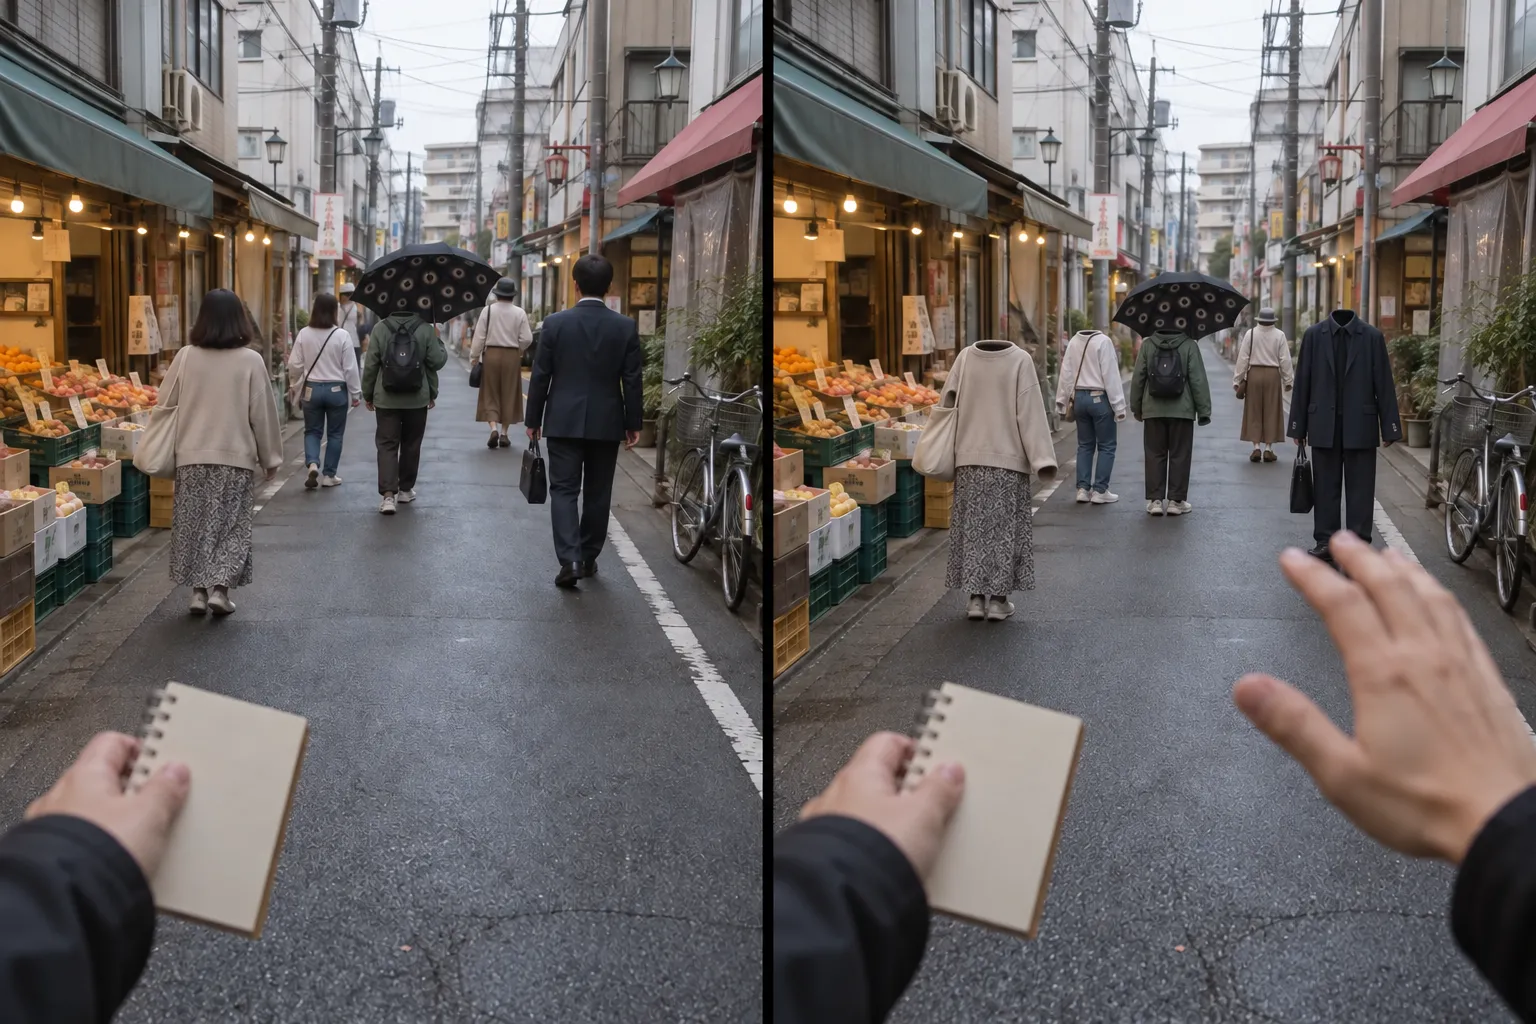
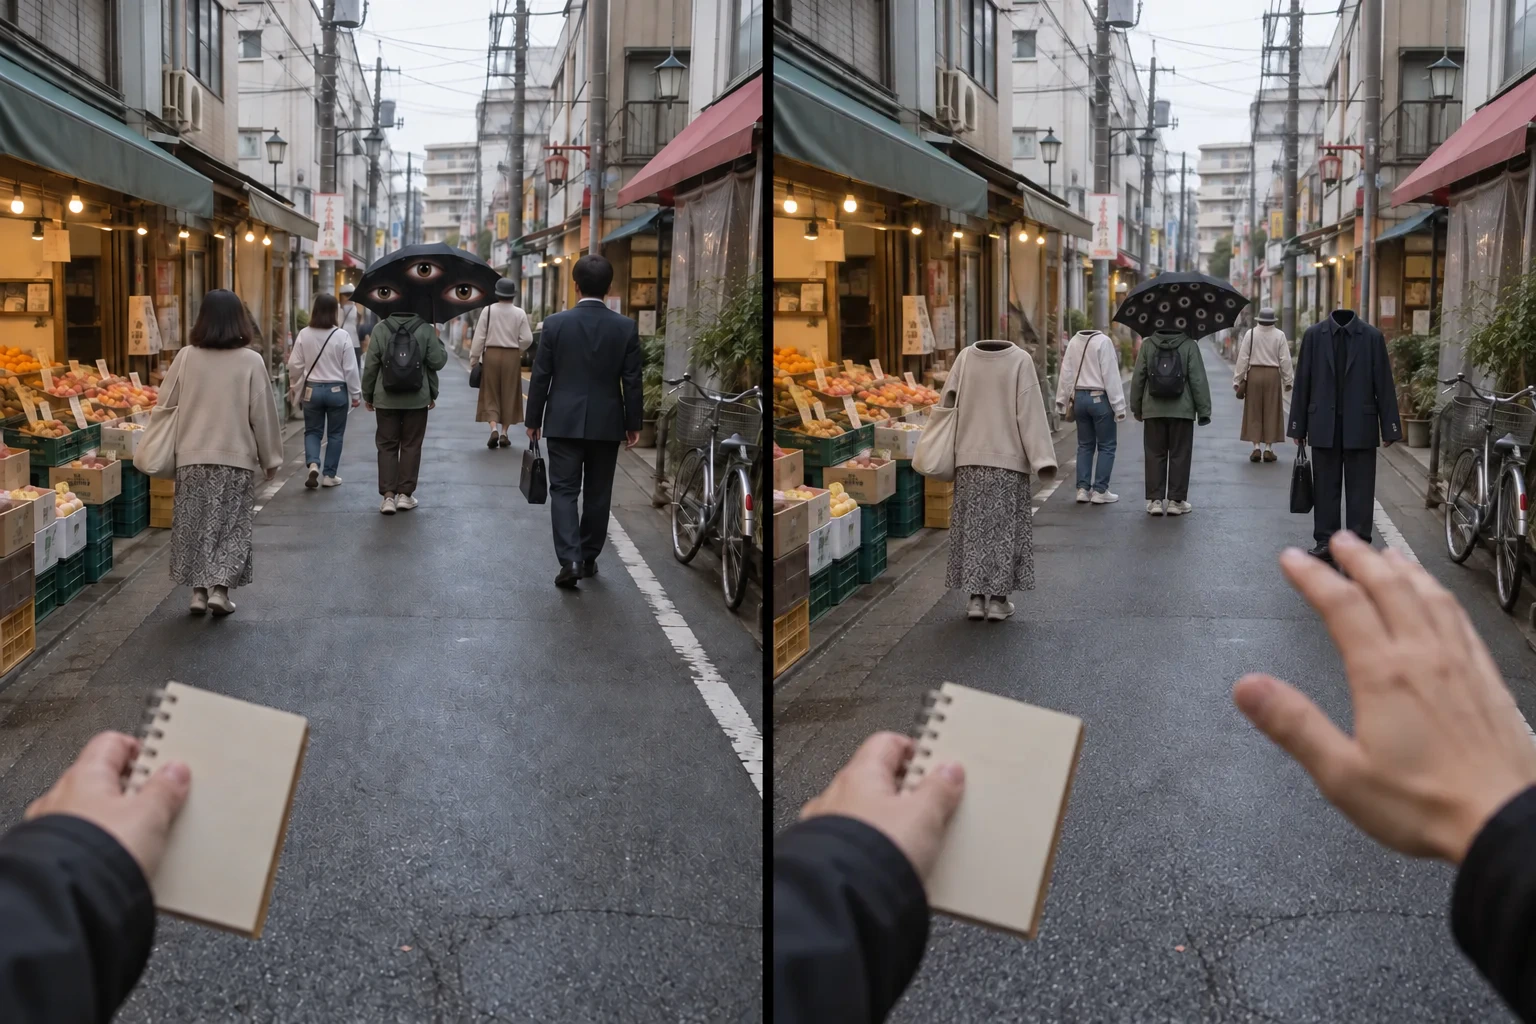
商店街の傘を明確な異変として描き直す (#226)
* Make umbrella observation unmistakably anomalous

* Narrow umbrella anomaly touch target to visible eyes

* Guide repeated missed anomaly taps to region picker

* Track street blind review under the roadmap

* Keep missed-touch guidance readable on short phones

* Preserve missed-contact wording in compact guidance

diff --git a/assets/investigation.js b/assets/investigation.js
@@ -2,7 +2,7 @@
 const INVESTIGATION_CASES={
  cctv:{member:'records',notes:['設置時の記録。公園には人影がない。','風速計は停止したまま。ブランコの位置だけが前の記録と違う。','人物に対応する入園記録はない。影だけが撮影範囲に入っている。','整列した跡は砂場の内側で途切れている。そこへ続く足跡はない。'],testimony:['この公園の使用届は、昨日から白紙です。','揺れていない、と書かれた点検票があります。点検時刻は、あなたの観測と同じです。','入園者はゼロで合っています。退園者だけ、一名記録されています。','並んだ数は報告書に書かないでください。前の報告より、一つ増えてしまうので。']},
  photo:{member:'senior',notes:['食器は三人分。撮影者の席は記録されていない。','箸の下に、支えるものは写っていない。食事の席は乱れていない。','追加の食器だけに使用した跡がある。誰が用意したかは不明。','窓の反射として処理された輪郭がある。反射の向きは室内と一致しない。'],testimony:['人数だけは覚えておけ。誰がいたかより、先に忘れる。','昔も箸が止まっていた。写真を片付けたあと、食器の音だけ聞こえた。','四人目を探す前に、自分が何人目なのか考えるな。席を離れていい。','あれを外から見ていると思うと、話が合わなくなる。今日は窓を閉めておこう。']},
- vision:{member:'equipment',notes:['接続元は商店街。映像を提供する人の氏名欄は空欄。','傘の輪郭に、機材の欠損では説明できない形がある。','接続先の人々の顔が、同じ方向へ向いている。操作者の位置は送信していない。','衣服は歩行中の形を保っている。着用者に相当する部分だけが見えない。'],testimony:['接続先は一台です。でも切断の返事は、毎回二つ来ます。','あの形、レンズの傷ではありません。電源を切ったモニタにも残るんです。','こちらの位置は送っていません。向こうが向きを合わせたとしか、記録できない。','通信量は減っていません。見えない部分の情報も、まだ届いています。']},
+ vision:{member:'equipment',notes:['接続元は商店街。映像を提供する人の氏名欄は空欄。','傘の布に、こちらを見返す眼が三つある。持ち手は映っていない。','接続先の人々の顔が、同じ方向へ向いている。操作者の位置は送信していない。','衣服は歩行中の形を保っている。着用者に相当する部分だけが見えない。'],testimony:['接続先は一台です。でも切断の返事は、毎回二つ来ます。','あの形、レンズの傷ではありません。電源を切ったモニタにも残るんです。','こちらの位置は送っていません。向こうが向きを合わせたとしか、記録できない。','通信量は減っていません。見えない部分の情報も、まだ届いています。']},
  dash:{member:'equipment',notes:['雨上がりの県道。対向車も歩行者も記録されていない。','道路とカーブミラーで、光源の時間帯が一致しない。','位置情報は進んでいるが、路面の特徴が以前の記録と一致する。','横断者に接近した記録がない。同じ距離のまま、複数のフレームに写る。'],testimony:['この車、保管庫にあるはずです。走行履歴だけ先に届きます。','ミラーの時刻が正しいのかもしれません。車内の時計は、確認しなくていい。','位置情報は戻っていません。同じ場所が、先回りしていることになります。','停車信号は送れます。でも、止まったという返事だけは来ないんです。']}
 };
 // A second, acquired-only reading changes the meaning of the first testimony.

diff --git a/assets/observation.js b/assets/observation.js
@@ -239,7 +239,7 @@ function observationCollect(event){
  const result=strike?WatchModel.suppress(o,Date.now(),point):WatchModel.tap(o,Date.now());
  if(result){watchMisses=0;observationReward(result);}else {
   if(strike){watchMisses=contact?0:watchMisses+1;
-   if(contact||watchMisses>=3){watchMessage=contact?'輪郭が揺らいだ。まだ、そこにいる。':'この場所からは反応がない。';watchMessageUntil=Date.now()+2200;}
+   if(contact||watchMisses>=3){watchMessage=contact?'輪郭が揺らいだ。まだ、そこにいる。':'反応がない。「対処方法」から場所を選べます。';watchMessageUntil=Date.now()+(contact?2200:4200);}
   }
   markDirty();renderObservation();
  }

diff --git a/assets/observation-model.js b/assets/observation-model.js
@@ -13,7 +13,7 @@
  const TARGETS={
   cctv:{1:[[.51,.34,.17,.20]],2:[[.66,.64,.25,.22]],3:[[.22,.65,.22,.20]]},
   photo:{1:[[.40,.36,.13,.15]],2:[[.70,.82,.25,.18]],3:[[.59,.065,.15,.12]]},
-  vision:{1:[[.50,.28,.16,.10]],2:[[.28,.38,.12,.16],[.54,.36,.10,.14],[.76,.36,.12,.16]],3:[[.28,.44,.12,.22],[.77,.44,.12,.22]]},
+  vision:{1:[[.555,.281,.095,.065]],2:[[.28,.38,.12,.16],[.54,.36,.10,.14],[.76,.36,.12,.16]],3:[[.28,.44,.12,.22],[.77,.44,.12,.22]]},
   dash:{1:[[.20,.29,.11,.15]],2:[[.43,.42,.16,.17]],3:[[.59,.54,.22,.16]]}
  };
  const RESEARCH_COST=48;

diff --git a/docs/OBSERVATION.md b/docs/OBSERVATION.md
@@ -42,6 +42,10 @@
 
 独自生成画像をWebP化。既存の左右シートはN/SR、新しい`*-variants.webp`はR/SSR。同じ地点の構図を保ちながら、人数・物理・視線・時間・反復の異常を変える。媒体ごとの走査線、現像、瞬き、車内視点で見え方にも違いを持たせる。素材内の文章・大音量・強い点滅に頼らない。OS reduced-motionと観測設定の演出軽減に従う。
 
+商店街R「視線を持つ傘」は、晴雨と無関係な普通の傘を異変と誤読しないよう、布の眼球と持ち手の欠落を視認できる差分へ更新した。平常N・SR・SSRの構図、記録ID・報酬は維持。画像編集の入力は従来の`vision-variants.webp`、生成プロンプトは「左セル中央の傘だけを、人の眼球三つがこちらを見返し、持ち手がない形へ。右セル・人物・通り・乾いた曇天・構図は変えず、雨や黄色の案内表示を追加しない」。ImageGenで作った左セルと従来の右セルを合成してWebPにした。生成由来のため境界外の微細な画素差はあり得る。実機でのブラインド視認検収は未実施。
+
+追加のブラッシュアップ：①眼3点に接触範囲を合わせ、傘の縁・歩行者・路面では鎮静を進めない。②3回空振りしたら、異変の答えを明かさずに既存の「対処方法」から場所を選べると短く案内する。320×568・390×844でも説明欄に収まることを検査する。③保存中のR記録・pt・異変確率はそのままに、実タップと画像デコードを回帰検査する。④初見で眼を異変と認識できるかは自動検査の合格と区別し、#89/#75の人によるブラインド・実機検収に残す。
+
 ホームでは希少度や異変の答えを先に説明せず、完了後に短い転送・干渉停止の記録とptだけを表示。資料の「観測」に16枠を集約し、未観測は名前を伏せ、発見済みは映像と回数を見返せる。再閲覧で報酬は発生しない。
 
 ## 素材追加の方針・残タスク
